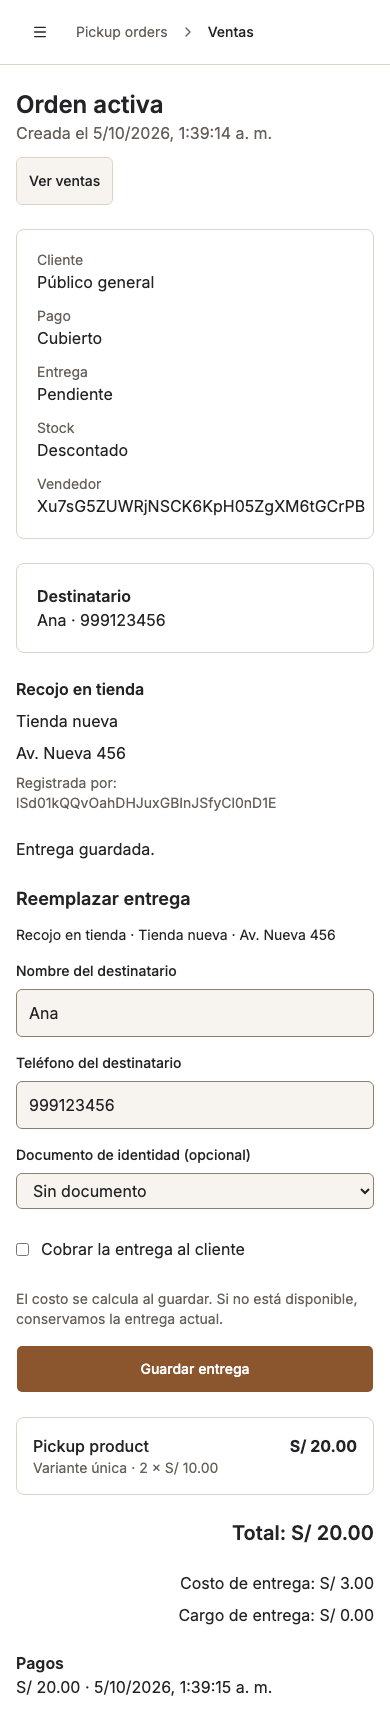
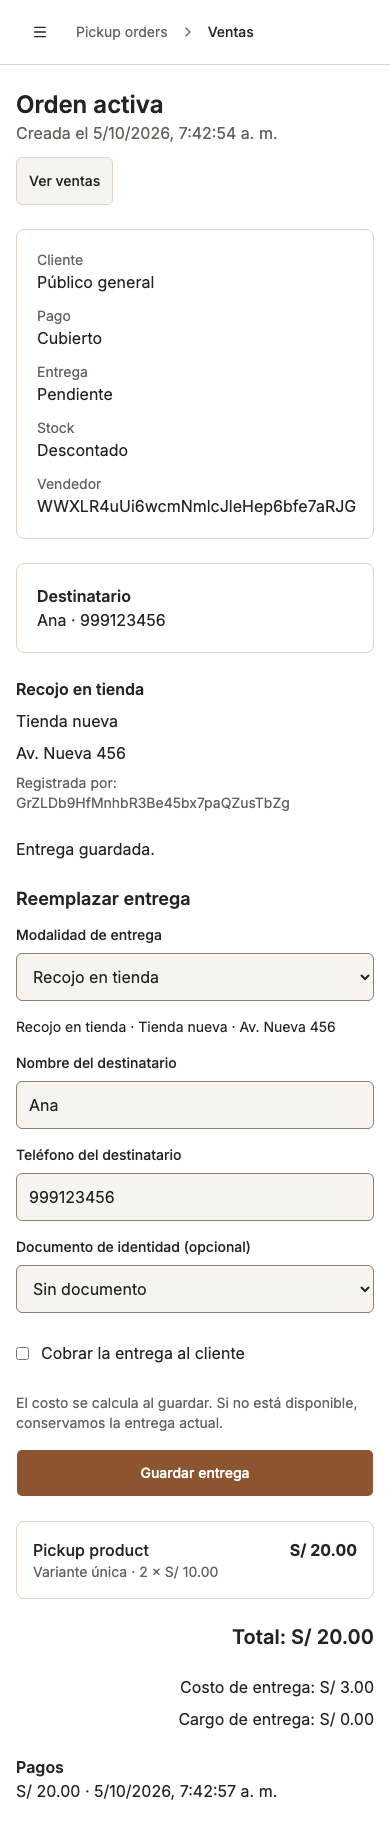
Assign home delivery from web order details

diff --git a/apps/core/app/locales.ts b/apps/core/app/locales.ts
@@ -22,7 +22,8 @@ const es = {
     title: "Modalidades de entrega", description: "Configura las opciones que ofreces a tus clientes.", home: "Entrega a domicilio", homeEnabled: "Ofrecer entrega a domicilio", store: "Recojo en tienda", enabled: "Ofrecer recojo en tienda", storeHint: "Al desactivar el recojo, conservamos los datos del punto para volver a activarlo.", name: "Nombre del punto de recojo", address: "Dirección", instructions: "Indicaciones (opcional)", save: "Guardar configuración", saving: "Guardando…", saved: "Configuración guardada.", reload: "Recargar configuración", invalid: "Completa el nombre y la dirección del punto de recojo.", conflict: "Otra persona cambió la configuración. Recarga para revisar los cambios antes de guardar.", saveError: "No se pudo guardar. Conservamos tus cambios para que puedas reintentar.", loadError: "No se pudo cargar la configuración",
   },
   orderDelivery: {
-    cost: "Costo de entrega: {{amount}}", assign: "Asignar entrega", replace: "Reemplazar entrega", recipientName: "Nombre del destinatario", recipientPhone: "Teléfono del destinatario", identity: "Documento de identidad (opcional)", noDocument: "Sin documento", document: "Número de documento", charge: "Cobrar la entrega al cliente", priceHint: "El costo se calcula al guardar. Si no está disponible, conservamos la entrega actual.", save: "Guardar entrega", saved: "Entrega guardada.", recordedBy: "Registrada por", buyer: "Comprador", configure: "Configurar modalidades de entrega", invalid: "Revisa los datos del destinatario.", disabled: "El recojo en tienda está desactivado. Actívalo en la configuración para asignarlo.", unavailable: "No se pudo confirmar la disponibilidad y el costo de la entrega. Inténtalo de nuevo.", locked: "La entrega no se puede cambiar después de despachar, entregar o cancelar la orden.", stockError: "No hay stock suficiente. Conservamos la entrega anterior.", saveError: "No se pudo guardar la entrega. Conservamos tus datos para reintentar.",
+    method: "Modalidad de entrega", chooseMethod: "Selecciona una modalidad", address: "Dirección de entrega", district: "Distrito", instructions: "Indicaciones de entrega (opcional)",
+    cost: "Costo de entrega: {{amount}}", assign: "Asignar entrega", replace: "Reemplazar entrega", recipientName: "Nombre del destinatario", recipientPhone: "Teléfono del destinatario", identity: "Documento de identidad (opcional)", noDocument: "Sin documento", document: "Número de documento", charge: "Cobrar la entrega al cliente", priceHint: "El costo se calcula al guardar. Si no está disponible, conservamos la entrega actual.", save: "Guardar entrega", saved: "Entrega guardada.", recordedBy: "Registrada por", buyer: "Comprador", configure: "Configurar modalidades de entrega", invalid: "Revisa los datos del destinatario y el destino de entrega.", disabled: "La modalidad de entrega no está disponible. Revisa la configuración para asignarla.", unavailable: "No se pudo confirmar la disponibilidad y el costo de la entrega. Inténtalo de nuevo.", locked: "La entrega no se puede cambiar después de despachar, entregar o cancelar la orden.", stockError: "No hay stock suficiente. Conservamos la entrega anterior.", saveError: "No se pudo guardar la entrega. Conservamos tus datos para reintentar.",
   },
   products: {
     title: "Productos", new: "Nuevo producto", newDescription: "Completa los datos para agregarlo a tu empresa.", name: "Nombre", multipleVariants: "Varias variantes", noSku: "Sin SKU", salePrice: "Precio de venta", purchasePrice: "Precio de compra", from: "Desde ", stock: "Stock", searchLabel: "Buscar por nombre o SKU", search: "Buscar", caption: "Productos del catálogo", emptySearch: "No se encontraron productos para esta búsqueda.", empty: "Aún no hay productos en el catálogo. ", createFirst: "Crea el primero", pages: "Páginas de productos", page: "Página {{page}}", invalidSearch: "Búsqueda no válida", loadError: "No se pudo cargar el catálogo", invalidSearchDescription: "Revisa los criterios e inténtalo de nuevo.", retry: "Reintentar", backCatalog: "Volver al catálogo", backProducts: "Volver a productos", saved: "Producto guardado correctamente.", saveChanges: "Guardar cambios", variants: "Variantes", variant: "Variante {{number}}", noPrice: "Sin precio", missing: "Producto no encontrado", loadProductError: "No se pudo cargar el producto", missingDescription: "No hay un producto disponible en esta dirección.", backHome: "Volver al inicio",
@@ -84,7 +85,8 @@ const pt = {
     title: "Modalidades de entrega", description: "Configure as opções que você oferece aos seus clientes.", home: "Entrega em domicílio", homeEnabled: "Oferecer entrega em domicílio", store: "Retirada na loja", enabled: "Oferecer retirada na loja", storeHint: "Ao desativar a retirada, mantemos os dados do ponto para ativá-lo novamente.", name: "Nome do ponto de retirada", address: "Endereço", instructions: "Instruções (opcional)", save: "Salvar configuração", saving: "Salvando…", saved: "Configuração salva.", reload: "Recarregar configuração", invalid: "Preencha o nome e o endereço do ponto de retirada.", conflict: "Outra pessoa alterou a configuração. Recarregue para revisar as alterações antes de salvar.", saveError: "Não foi possível salvar. Mantemos suas alterações para tentar novamente.", loadError: "Não foi possível carregar a configuração",
   },
   orderDelivery: {
-    cost: "Custo da entrega: {{amount}}", assign: "Definir entrega", replace: "Substituir entrega", recipientName: "Nome do destinatário", recipientPhone: "Telefone do destinatário", identity: "Documento de identidade (opcional)", noDocument: "Sem documento", document: "Número do documento", charge: "Cobrar a entrega do cliente", priceHint: "O custo é calculado ao salvar. Se não estiver disponível, mantemos a entrega atual.", save: "Salvar entrega", saved: "Entrega salva.", recordedBy: "Registrada por", buyer: "Comprador", configure: "Configurar modalidades de entrega", invalid: "Revise os dados do destinatário.", disabled: "A retirada na loja está desativada. Ative-a na configuração para defini-la.", unavailable: "Não foi possível confirmar a disponibilidade e o custo da entrega. Tente novamente.", locked: "A entrega não pode ser alterada depois de despachar, entregar ou cancelar o pedido.", stockError: "Não há estoque suficiente. Mantemos a entrega anterior.", saveError: "Não foi possível salvar a entrega. Mantemos seus dados para tentar novamente.",
+    method: "Modalidade de entrega", chooseMethod: "Selecione uma modalidade", address: "Endereço de entrega", district: "Distrito", instructions: "Instruções de entrega (opcional)",
+    cost: "Custo da entrega: {{amount}}", assign: "Definir entrega", replace: "Substituir entrega", recipientName: "Nome do destinatário", recipientPhone: "Telefone do destinatário", identity: "Documento de identidade (opcional)", noDocument: "Sem documento", document: "Número do documento", charge: "Cobrar a entrega do cliente", priceHint: "O custo é calculado ao salvar. Se não estiver disponível, mantemos a entrega atual.", save: "Salvar entrega", saved: "Entrega salva.", recordedBy: "Registrada por", buyer: "Comprador", configure: "Configurar modalidades de entrega", invalid: "Revise os dados do destinatário e o destino da entrega.", disabled: "A modalidade de entrega não está disponível. Confira a configuração para defini-la.", unavailable: "Não foi possível confirmar a disponibilidade e o custo da entrega. Tente novamente.", locked: "A entrega não pode ser alterada depois de despachar, entregar ou cancelar o pedido.", stockError: "Não há estoque suficiente. Mantemos a entrega anterior.", saveError: "Não foi possível salvar a entrega. Mantemos seus dados para tentar novamente.",
   },
   products: {
     title: "Produtos", new: "Novo produto", newDescription: "Preencha os dados para adicioná-lo à sua empresa.", name: "Nome", multipleVariants: "Várias variantes", noSku: "Sem SKU", salePrice: "Preço de venda", purchasePrice: "Preço de compra", from: "A partir de ", stock: "Estoque", searchLabel: "Buscar por nome ou SKU", search: "Buscar", caption: "Produtos do catálogo", emptySearch: "Nenhum produto encontrado para esta busca.", empty: "Ainda não há produtos no catálogo. ", createFirst: "Crie o primeiro", pages: "Páginas de produtos", page: "Página {{page}}", invalidSearch: "Busca inválida", loadError: "Não foi possível carregar o catálogo", invalidSearchDescription: "Confira os critérios e tente novamente.", retry: "Tentar novamente", backCatalog: "Voltar ao catálogo", backProducts: "Voltar aos produtos", saved: "Produto salvo com sucesso.", saveChanges: "Salvar alterações", variants: "Variantes", variant: "Variante {{number}}", noPrice: "Sem preço", missing: "Produto não encontrado", loadProductError: "Não foi possível carregar o produto", missingDescription: "Não há um produto disponível neste endereço.", backHome: "Voltar ao início",

diff --git a/apps/core/src/features/orders/presentation/delivery-form.tsx b/apps/core/src/features/orders/presentation/delivery-form.tsx
@@ -1,0 +1,62 @@
+import { useState } from "react";
+import { useClientReady } from "@core/app/use-client-ready";
+import { useTranslation } from "react-i18next";
+import { useSubmit } from "react-router";
+import type { OrderAggregateResponse, SetOrderDeliveryRequest } from "@shared/contracts/orders";
+import type { DeliverySettingsResponse } from "@shared/contracts/delivery-settings";
+import { Button } from "@core/app/components/ui/button";
+import { Field, FieldLabel, controlClass } from "@core/app/components/ui/field";
+import { Input } from "@core/app/components/ui/input";
+
+type Recipient = SetOrderDeliveryRequest["delivery"]["recipient"];
+export function DeliveryForm({ order, settings, pending }: { order: OrderAggregateResponse; settings: DeliverySettingsResponse; pending: boolean }) {
+  const { t } = useTranslation();
+  const submit = useSubmit();
+  const ready = useClientReady();
+  const recipient = order.delivery?.recipient;
+  const [name, setName] = useState(recipient?.name ?? (order.customer.kind === "contact" ? order.customer.name ?? "" : ""));
+  const [phone, setPhone] = useState(recipient?.phone ?? (order.customer.kind === "contact" ? order.customer.phone : ""));
+  const [documentType, setDocumentType] = useState<"absent" | "national_id" | "passport" | "foreign_id">(recipient?.identity.kind === "document" ? recipient.identity.documentType : "absent");
+  const [document, setDocument] = useState(recipient?.identity.kind === "document" ? recipient.identity.document : "");
+  const [charge, setCharge] = useState(order.delivery ? order.deliveryCharge.amount > 0 : false);
+  const [method, setMethod] = useState<"store" | "home">(order.delivery?.method === "home" ? "home" : settings.store.enabled ? "store" : "home");
+  const destination = order.delivery?.method === "home" ? order.delivery.destination : null;
+  const [address, setAddress] = useState(destination?.address ?? "");
+  const [district, setDistrict] = useState(destination?.district ?? "");
+  const [instructions, setInstructions] = useState(destination?.instructions ?? "");
+  const point = settings.store.pickupPoint;
+  const enabled = method === "store" ? settings.store.enabled : settings.home.enabled;
+  return <form className="flex max-w-form flex-col gap-4" onSubmit={event => {
+    event.preventDefault();
+    if (!ready) return;
+    const identity: Recipient["identity"] = documentType === "absent" ? { kind: "absent" } : { kind: "document", documentType, document };
+    const recipient = { name, phone, identity };
+    const delivery: SetOrderDeliveryRequest["delivery"] = method === "store" ? { method, recipient }
+      : { method, recipient, destination: { address, district, instructions: instructions.trim() || null } };
+    submit({ delivery, chargeDeliveryToCustomer: charge }, { method: "post", encType: "application/json" });
+  }}>
+    <fieldset disabled={pending || !ready} className="flex min-w-0 flex-col gap-4">
+      <legend className="mb-3 text-lg font-semibold">{t(order.delivery ? "orderDelivery.replace" : "orderDelivery.assign")}</legend>
+      <Field><FieldLabel htmlFor="delivery-method">{t("orderDelivery.method")}</FieldLabel><select id="delivery-method" className={`${controlClass} max-md:min-h-touch`} value={enabled ? method : ""} required onChange={event => setMethod(event.target.value as "store" | "home")}>
+        <option value="" disabled>{t("orderDelivery.chooseMethod")}</option>
+        {settings.store.enabled && <option value="store">{t("deliverySettings.store")}</option>}
+        {settings.home.enabled && <option value="home">{t("deliverySettings.home")}</option>}
+      </select></Field>
+      {method === "store" ? <><p className="break-words text-sm">{t("deliverySettings.store")}{point && <> · {point.name} · {point.address}</>}</p>
+      {point?.instructions && <p className="whitespace-pre-wrap break-words text-sm text-muted-foreground">{point.instructions}</p>}</> : <>
+        <Field><FieldLabel htmlFor="delivery-address">{t("orderDelivery.address")}</FieldLabel><Input id="delivery-address" value={address} required maxLength={500} onChange={event => setAddress(event.target.value)} /></Field>
+        <Field><FieldLabel htmlFor="delivery-district">{t("orderDelivery.district")}</FieldLabel><Input id="delivery-district" value={district} required maxLength={120} onChange={event => setDistrict(event.target.value)} /></Field>
+        <Field><FieldLabel htmlFor="delivery-instructions">{t("orderDelivery.instructions")}</FieldLabel><Input id="delivery-instructions" value={instructions} maxLength={1000} onChange={event => setInstructions(event.target.value)} /></Field>
+      </>}
+      <Field><FieldLabel htmlFor="recipient-name">{t("orderDelivery.recipientName")}</FieldLabel><Input id="recipient-name" value={name} required onChange={event => setName(event.target.value)} /></Field>
+      <Field><FieldLabel htmlFor="recipient-phone">{t("orderDelivery.recipientPhone")}</FieldLabel><Input id="recipient-phone" type="tel" value={phone} required onChange={event => setPhone(event.target.value)} /></Field>
+      <Field><FieldLabel htmlFor="recipient-document-type">{t("orderDelivery.identity")}</FieldLabel><select id="recipient-document-type" className={`${controlClass} max-md:min-h-touch`} value={documentType} onChange={event => setDocumentType(event.target.value as typeof documentType)}>
+        <option value="absent">{t("orderDelivery.noDocument")}</option><option value="national_id">{t("orders.documentType.national_id")}</option><option value="passport">{t("orders.documentType.passport")}</option><option value="foreign_id">{t("orders.documentType.foreign_id")}</option>
+      </select></Field>
+      {documentType !== "absent" && <Field><FieldLabel htmlFor="recipient-document">{t("orderDelivery.document")}</FieldLabel><Input id="recipient-document" value={document} required onChange={event => setDocument(event.target.value)} /></Field>}
+      <label className="flex min-h-touch items-center gap-3"><input type="checkbox" checked={charge} onChange={event => setCharge(event.target.checked)} />{t("orderDelivery.charge")}</label>
+      <p className="text-sm text-muted-foreground">{t("orderDelivery.priceHint")}</p>
+    </fieldset>
+    <Button type="submit" disabled={pending || !ready || !enabled}>{t(pending ? "deliverySettings.saving" : "orderDelivery.save")}</Button>
+  </form>;
+}

diff --git a/apps/core/app/routes/order-detail.tsx b/apps/core/app/routes/order-detail.tsx
@@ -8,7 +8,7 @@ import { deliverySettingsSchema } from "@shared/contracts/delivery-settings";
 import { deliverySettings } from "@core/src/features/delivery-settings";
 import { deliveryCostContext } from "@core/app/delivery-cost-context";
 import { log } from "@core/src/shared/infrastructure/logger";
-import { StoreDeliveryForm } from "@core/src/features/orders/presentation/store-delivery-form";
+import { DeliveryForm } from "@core/src/features/orders/presentation/delivery-form";
 import { parseDeliverySelection } from "@core/src/features/orders/domain/order-state-machine";
 import { setConfiguredOrderDelivery } from "@core/src/features/orders/composition";
 import { orders } from "@core/src/features/orders/composition";
@@ -67,9 +67,10 @@ export default function OrderDetail() {
     <dl className="grid gap-3 rounded-md border p-5 sm:grid-cols-2"><div><dt className="text-sm text-muted-foreground">{t("orders.customer")}</dt><dd>{order.customer.kind === "contact" ? order.customer.name ?? order.customer.phone : t("orders.generalPublic")}</dd></div><div><dt className="text-sm text-muted-foreground">{t("orders.payment")}</dt><dd>{order.paymentStatus === "paid" ? t("orders.paid") : t("orders.balanceDue", { amount: amount(order.balanceDue) })}</dd></div>{order.customer.kind === "contact" && <div><dt className="text-sm text-muted-foreground">{t("orders.phoneAtSale")}</dt><dd>{order.customer.phone}</dd></div>}<div><dt className="text-sm text-muted-foreground">{t("orders.delivery")}</dt><dd>{t(`orders.deliveryStatus.${order.deliveryStatus}`)}</dd></div><div><dt className="text-sm text-muted-foreground">{t("orders.stock")}</dt><dd>{order.stockDeducted ? t("orders.stockDeducted") : t("orders.stockPending")}</dd></div><div><dt className="text-sm text-muted-foreground">{t("orders.seller")}</dt><dd>{order.sellerId}</dd></div></dl>
     {order.delivery && <div className="rounded-md border p-5"><h2 className="font-semibold">{t("orders.recipient")}</h2><p>{order.delivery.recipient.name} · {order.delivery.recipient.phone}</p>{order.delivery.recipient.identity.kind === "document" && <p>{t(`orders.documentType.${order.delivery.recipient.identity.documentType}`)}: {order.delivery.recipient.identity.document}</p>}</div>}
     {order.delivery?.method === "store" && <section className="flex flex-col gap-2"><h2 className="font-semibold">{t("deliverySettings.store")}</h2><p className="break-words">{order.delivery.pickupPoint.name}</p><p className="whitespace-pre-wrap break-words">{order.delivery.pickupPoint.address}</p>{order.delivery.pickupPoint.instructions && <p className="whitespace-pre-wrap break-words">{order.delivery.pickupPoint.instructions}</p>}<p className="break-words text-sm text-muted-foreground">{t("orderDelivery.recordedBy")}: {order.delivery.recordedBy.kind === "seller" ? order.delivery.recordedBy.userId : t("orderDelivery.buyer")}</p></section>}
+    {order.delivery?.method === "home" && <section className="flex flex-col gap-2"><h2 className="font-semibold">{t("deliverySettings.home")}</h2><p className="whitespace-pre-wrap break-words">{order.delivery.destination.address}</p><p className="break-words">{order.delivery.destination.district}</p>{order.delivery.destination.instructions && <p className="whitespace-pre-wrap break-words">{order.delivery.destination.instructions}</p>}<p className="break-words text-sm text-muted-foreground">{t("orderDelivery.recordedBy")}: {order.delivery.recordedBy.kind === "seller" ? order.delivery.recordedBy.userId : t("orderDelivery.buyer")}</p></section>}
     {result?.error && <p role="alert" className="text-sm text-destructive">{t(`orderDelivery.${result.error}`)}</p>}
     {result?.order && <p role="status">{t("orderDelivery.saved")}</p>}
-    {editable ? settings?.store.enabled ? <StoreDeliveryForm key={JSON.stringify(order.delivery)} order={order} settings={settings} pending={navigation.state !== "idle"} />
+    {editable ? settings && (settings.store.enabled || settings.home.enabled) ? <DeliveryForm key={JSON.stringify(order.delivery)} order={order} settings={settings} pending={navigation.state !== "idle"} />
       : <section className="flex flex-col gap-2"><p>{t(settings ? "orderDelivery.disabled" : "deliverySettings.loadError")}</p><Link className="text-primary underline underline-offset-4" to={settingsPath}>{t("orderDelivery.configure")}</Link></section>
       : <p className="text-sm text-muted-foreground">{t("orderDelivery.locked")}</p>}
     <ul className="divide-y rounded-md border">{order.items.map((item) => <li key={item.id} className="flex justify-between gap-3 p-4"><div><p className="font-medium">{item.productName}</p><p className="text-sm text-muted-foreground">{Object.values(item.variantAttributes).join(" · ") || item.sku || t("orders.uniqueVariant")} · {item.quantity} × {amount(item.unitPrice)}</p></div><strong>{amount(item.subtotal)}</strong></li>)}</ul>

diff --git a/apps/core/app/routes/delivery-settings.tsx b/apps/core/app/routes/delivery-settings.tsx
@@ -1,4 +1,5 @@
 import { useState } from "react";
+import { useClientReady } from "@core/app/use-client-ready";
 import { useTranslation } from "react-i18next";
 import { useActionData, useLoaderData, useNavigation, useSubmit, type ActionFunctionArgs, type LoaderFunctionArgs } from "react-router";
 import { deliverySettingsSchema, saveDeliverySettingsSchema, type DeliverySettingsResponse } from "@shared/contracts/delivery-settings";
@@ -41,6 +42,7 @@ export async function action({ context, request }: ActionFunctionArgs) {
 function SettingsForm({ settings }: { settings: DeliverySettingsResponse }) {
   const { t } = useTranslation();
   const submit = useSubmit();
+  const ready = useClientReady();
   const navigation = useNavigation();
   const result = useActionData<typeof action>();
   const [version, setVersion] = useState(settings.version);
@@ -64,10 +66,11 @@ function SettingsForm({ settings }: { settings: DeliverySettingsResponse }) {
   const configured = enabled || [name, address, instructions].some(value => value.trim() !== "");
   return <form className="flex flex-col gap-6" onSubmit={event => {
     event.preventDefault();
+    if (!ready) return;
     submit({ expectedVersion: version, home: { enabled: homeEnabled }, store: { enabled, pickupPoint: configured
       ? { name, address, instructions: instructions.trim() || null } : null } }, { method: "post", encType: "application/json" });
   }}>
-    <fieldset className="flex min-w-0 flex-col gap-4" disabled={pending}>
+    <fieldset className="flex min-w-0 flex-col gap-4" disabled={pending || !ready}>
       <legend className="mb-3 text-lg font-semibold">{t("deliverySettings.store")}</legend>
       <label className="flex min-h-touch items-center gap-3"><input type="checkbox" checked={enabled} onChange={event => setEnabled(event.target.checked)} />{t("deliverySettings.enabled")}</label>
       <p className="text-sm text-muted-foreground">{t("deliverySettings.storeHint")}</p>
@@ -75,13 +78,13 @@ function SettingsForm({ settings }: { settings: DeliverySettingsResponse }) {
       <Field><FieldLabel htmlFor="pickup-address">{t("deliverySettings.address")}</FieldLabel><Input id="pickup-address" value={address} maxLength={500} required={configured} onChange={event => setAddress(event.target.value)} /></Field>
       <Field><FieldLabel htmlFor="pickup-instructions">{t("deliverySettings.instructions")}</FieldLabel><Input id="pickup-instructions" value={instructions} maxLength={1000} onChange={event => setInstructions(event.target.value)} /></Field>
     </fieldset>
-    <fieldset className="flex min-w-0 flex-col gap-4" disabled={pending}>
+    <fieldset className="flex min-w-0 flex-col gap-4" disabled={pending || !ready}>
       <legend className="mb-3 text-lg font-semibold">{t("deliverySettings.home")}</legend>
       <label className="flex min-h-touch items-center gap-3"><input type="checkbox" checked={homeEnabled} onChange={event => setHomeEnabled(event.target.checked)} />{t("deliverySettings.homeEnabled")}</label>
     </fieldset>
     {result?.error && <p role="alert" className="text-sm text-destructive">{t(`deliverySettings.${result.error}`)}</p>}
     {result?.saved && <p role="status">{t("deliverySettings.saved")}</p>}
-    <div className="flex flex-wrap gap-3"><Button type="submit" disabled={pending || Boolean(conflict)}>{t(pending ? "deliverySettings.saving" : "deliverySettings.save")}</Button>
+    <div className="flex flex-wrap gap-3"><Button type="submit" disabled={pending || !ready || Boolean(conflict)}>{t(pending ? "deliverySettings.saving" : "deliverySettings.save")}</Button>
       {conflict && <Button asChild variant="outline"><a href="">{t("deliverySettings.reload")}</a></Button>}</div>
   </form>;
 }

diff --git a/apps/core/tests/e2e/store-delivery.spec.ts b/apps/core/tests/e2e/store-delivery.spec.ts
@@ -85,10 +85,41 @@ test("store assignment preserves unavailable delivery, freezes its point and ato
     expect(await page.evaluate(() => document.documentElement.scrollWidth <= window.innerWidth)).toBe(true);
     await page.evaluate(() => window.scrollTo({ top: 0, behavior: "instant" }));
     await page.screenshot({ path: "../../.impeccable/review/store-order-mobile.png", fullPage: true });
+    expect((await page.request.put("/api/delivery-settings", { data: { expectedVersion: 2, home: { enabled: true },
+      store: { enabled: true, pickupPoint: { name: "Tienda nueva", address: "Av. Nueva 456", instructions: null } } } })).ok()).toBe(true);
+    await page.reload();
+    await page.getByLabel("Modalidad de entrega").selectOption("home");
+    await page.getByLabel("Dirección de entrega", { exact: true }).fill("Calle Destino 789");
+    await page.getByRole("button", { name: "Guardar entrega" }).click();
+    expect(await page.getByLabel("Distrito", { exact: true }).evaluate(element => (element as HTMLInputElement).validity.valueMissing)).toBe(true);
+    expect((await (await page.request.get(`/api/orders/${orderId}/aggregate`)).json()).delivery.method).toBe("store");
+    await page.getByLabel("Distrito", { exact: true }).fill("Miraflores");
+    await page.getByLabel("Nombre del destinatario").fill("Unavailable");
+    await saveDelivery();
+    await browserExpect(page.getByRole("alert")).toContainText("No se pudo confirmar");
+    await browserExpect(page.getByLabel("Dirección de entrega", { exact: true })).toHaveValue("Calle Destino 789");
+    await page.getByLabel("Nombre del destinatario").fill("Ana");
+    await page.getByLabel("Indicaciones de entrega (opcional)").fill("Puerta verde");
+    await saveDelivery();
+    const home = await (await page.request.get(`/api/orders/${orderId}/aggregate`)).json();
+    expect(home).toMatchObject({ delivery: { method: "home", destination: { address: "Calle Destino 789", district: "Miraflores", instructions: "Puerta verde" },
+      recordedBy: { kind: "seller", userId: editor.id } }, total: { amount: 20 }, deliveryCost: { amount: 3 }, deliveryCharge: { amount: 0 }, stockDeducted: true });
+    expect(home.delivery).not.toHaveProperty("pickupPoint");
+    await page.reload();
+    await browserExpect(page.getByText("Calle Destino 789", { exact: true })).toBeVisible();
+    await browserExpect(page.getByText("Miraflores", { exact: true })).toBeVisible();
+    await page.goto(`/pt-BR/orders/${orderId}`);
+    await browserExpect(page.getByLabel("Endereço de entrega", { exact: true })).toHaveValue("Calle Destino 789");
+    await page.goto(`/es-PE/orders/${orderId}`);
+    await page.setViewportSize({ width: 1280, height: 900 });
+    await page.screenshot({ path: "../../.impeccable/review/home-order-desktop.png", fullPage: true });
+    await page.setViewportSize({ width: 390, height: 844 });
+    expect(await page.evaluate(() => document.documentElement.scrollWidth <= window.innerWidth)).toBe(true);
+    await page.screenshot({ path: "../../.impeccable/review/home-order-mobile.png", fullPage: true });
     expect((await page.request.post(`/api/orders/${orderId}/ship`)).ok()).toBe(true);
     await page.reload();
     await browserExpect(page.getByRole("button", { name: "Guardar entrega" })).toHaveCount(0);
-    await browserExpect(page.getByText("Av. Nueva 456", { exact: true })).toBeVisible();
+    await browserExpect(page.getByText("Calle Destino 789", { exact: true })).toBeVisible();
     await browserExpect(page.getByText(/La entrega no se puede cambiar/)).toBeVisible();
   } finally {
     if (companyId) await withTenantIsolation(companyId, async () => {

diff --git a/apps/core/app/use-client-ready.ts b/apps/core/app/use-client-ready.ts
@@ -1,0 +1,6 @@
+import { useSyncExternalStore } from "react";
+
+const subscribe = () => () => {};
+export function useClientReady() {
+  return useSyncExternalStore(subscribe, () => true, () => false);
+}

diff --git a/.impeccable/surfaces/apps-core-app-routes-order-detail-tsx.md b/.impeccable/surfaces/apps-core-app-routes-order-detail-tsx.md
@@ -2,15 +2,15 @@
 version: 1
 slug: "apps-core-app-routes-order-detail-tsx"
 primary_target: "apps/core/app/routes/order-detail.tsx"
-related_targets: ["apps/core/src/features/orders/presentation/store-delivery-form.tsx"]
+related_targets: ["apps/core/src/features/orders/presentation/delivery-form.tsx"]
 ---
 
-# Store delivery on order detail
+# Delivery on order detail
 
-Operate surface, web only; inherits compact caramel. Editable orders support store assignment/replacement with recipient name/phone, optional identity document, and a customer charge decision. The server records an immutable pickup-point snapshot. Delivery cost and customer charge appear separately; no zero-placeholder tariff is substituted.
+Operate, web only; inherits compact caramel. Editable orders choose enabled store/home delivery, preserving shared recipient and charge fields. Home requires address/district; instructions are optional. Server-authored historical snapshots and recorder attribution display per method. Controlled delivery/configuration fields wait for client hydration before accepting edits. Cost/charge remain separate; production cost resolution defaults unavailable without a zero-placeholder tariff.
 
-Production cost resolution defaults to unavailable. E2E supplies only that capability through fresh server context; real authentication, configuration, and persistence remain exercised.
+E2E injects only cost capability via fresh server context, exercising real authentication/configuration/persistence. `apps/core/tests/e2e/store-delivery.spec.ts` covers store→home, missing district, unavailable draft retention, cleared pickup, Portuguese reopening, and shipped locks.
 
-Reviewer `/root/order_finish_review` disposition: ship for the captured light-mode saved editable replacement state; no material fixes. Uncaptured states and dark mode remain visual limitations.
+Reviewer requested 48px mobile selects; `max-md:min-h-touch` applied. Reviewer scored the select-target fix resolved in both mobile recaptures (ship at that scope). Full core E2E, lint, typecheck and unit checks passed. Visual evidence covers light mode only; dark/uncaptured states remain unapproved.
 
-Evidence: `.impeccable/review/store-order-desktop.png`, `.impeccable/review/store-order-mobile.png`. `apps/core/tests/e2e/store-delivery.spec.ts` and full core E2E passed; final lint, typecheck and unit checks passed.
+Captures: `.impeccable/review/home-order-desktop.png`, `.impeccable/review/home-order-mobile.png`, `.impeccable/review/store-order-desktop.png`, `.impeccable/review/store-order-mobile.png`.
